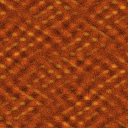
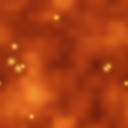
Smooth liquid edges, and a smooth lava tile
Shore quarters keep only the shore atlas's feather (alpha); their colour
comes from the liquid's own open-water tile at World position, so edges
match the body instead of the atlas's busier half-scale ripple. The lava
tile is regenerated in the water tile's soft style.

diff --git a/ROADMAP.md b/ROADMAP.md
@@ -641,6 +641,17 @@ roadmap's outdoor naturals) plus water.
   UNDERLAY (`_edge_underlay_mat` = the highest-ranked lower neighbour, so snow reveals sand beneath its
   feather; the grass base needs none) then the feathered atlas cell via `_shore_src(mask)`. Reuses the
   `base_fills` 4th-element src-override the shoreline added.
+- **Smooth liquid edges (2026-09-29, the user: the water's edge was "extra ripply").** The shore atlas
+  (`water_shore.png` / `lava_shore.png`) paints its own busier ripple, and each 32px atlas cell is squeezed
+  into a 16px quarter, so the edge ripple was twice as dense as the open water. Now only the atlas's ALPHA
+  (the feather shape) is used: `water_shimmer.gdshader` gained a shore mode (`use_body`) that colours a
+  shore quarter from the liquid's own open-water tile sampled by World position, exactly as open water
+  tiles it. `GridBackground` gives each liquid a shore canvas item with that material. The edge is now the
+  same smooth, seamless surface as the body, with the same shimmer; lava gets the same fix.
+  **Lava's own tile was also busy** (a high-contrast crosshatch), so `floors/lava_still.png` was regenerated
+  in the water tile's style: seamless 128x128 tileable value noise (3 octaves, soft blotches) on a crust ->
+  orange ramp, plus a few small glowing hot spots (procedural PIL; generator in the session scratchpad,
+  like the water's).
 - **Interactions.** Sand never feathers toward water (water outranks it); water still feathers over sand
   via its own shoreline (bank revealed). The river-bank ring still draws on naturals adjacent to water.
   Purely visual: a quarter's stored material is unchanged, so collision (sand/snow passable) and save are
@@ -1285,17 +1296,6 @@ The core game loop, folded in from a Notes batch and resolved with the user. Thi
 creature-collector RPG pillar the north star describes; infrastructure (dev-order steps 1 to 7)
 still comes first. See [[grid-quest-game-vision]].
 
-### Creature / minion states and lifecycle
-Canonical glossary + a fill-in form now live in `Design/creature-states.md`; keep this in sync with it.
-- **Entity vs control:** a **Creature** is the entity (what you call one while **wild / free**); a
-  **Minion** is a creature **under your control**.
-- **States:** **Wild** (roaming, hostile), **Subdued** (beaten, capture window open, transient),
-  **Entranced Minion** (mind forced by an **Enchantment Stone the player HOLDS**; obeys), **Contained**
-  / Paddocked (released from the stone into an appropriate paddock; roams the pen peacefully but is wild
-  at heart, turning hostile if the pen is broken or entered, until domesticated), **Loyal Minion**
-  (domesticated to loyalty; obeys willingly, needs no stone and no cage, never reverts). **Companion** =
-  a minion currently out walking with you (fills a carry slot; a deployment role).
-- **Enchantment Stone:** a held item (one of your slots) that controls one creature's mind remotely; it
 ### Combat direction (decided with the user 2026-09-29)
 - **Real-time on the map** (Zelda-style), not turn-based and not a separate battle screen: fights
   happen in the world, and you dodge by moving.
@@ -1326,6 +1326,17 @@ PLAY never mutates the map: records keep their authored cells, so EDIT puts ever
 **Open / later:** creatures entering houses (door-breaking abilities, e.g. Breaker Monkey on fences);
 per-species sight/leash; group behaviour; zone creatures respawning after defeat.
 
+### Creature / minion states and lifecycle
+Canonical glossary + a fill-in form now live in `Design/creature-states.md`; keep this in sync with it.
+- **Entity vs control:** a **Creature** is the entity (what you call one while **wild / free**); a
+  **Minion** is a creature **under your control**.
+- **States:** **Wild** (roaming, hostile), **Subdued** (beaten, capture window open, transient),
+  **Entranced Minion** (mind forced by an **Enchantment Stone the player HOLDS**; obeys), **Contained**
+  / Paddocked (released from the stone into an appropriate paddock; roams the pen peacefully but is wild
+  at heart, turning hostile if the pen is broken or entered, until domesticated), **Loyal Minion**
+  (domesticated to loyalty; obeys willingly, needs no stone and no cage, never reverts). **Companion** =
+  a minion currently out walking with you (fills a carry slot; a deployment role).
+- **Enchantment Stone:** a held item (one of your slots) that controls one creature's mind remotely; it
   is **never attached to the creature**. Releasing it, or moving it to storage, ends control: safe only
   when the creature is in appropriate containment (becomes Contained), otherwise it runs / turns Wild.
 - **Domestication:** an **experience-based** progression that rises **ONLY while a creature is Entranced**.
@@ -3608,6 +3619,23 @@ same system roofs and weather reuse.
     shared service; the minimap is another consumer).
 - Radius-based creature rendering needs a spatial query of nearby creatures; distant.
 
+**As built (2026-09-29): slice 1.** Decisions (confirmed with the user): a **~180px square, top-right**
+under the Play/Exit buttons; a **local window** (30x30 cells, 6px per cell) that scrolls smoothly with
+the player; **PLAY only** (the editor has pan/zoom); creature dots **coloured by state**. `ui/minimap.gd`
+(`Minimap`, CanvasLayer 8). "Building" and "inside" are exactly the roofs' (`Roofs.piece_at` /
+`buildings()`), so the view flips to the interior as the roof fades, and a fenced pen keeps the outdoor
+view. Outdoors: ground, liquids (water blue, lava orange), free-standing walls/fences, the map edge
+(off-map dark), buildings as one tan block. Indoors: that building's floors, walls and doors; everything
+else greyed, and only creatures inside with you are shown. The terrain is baked one pixel per cell (a
+32x32 image) on a cell change or a layout change and drawn scaled; only the dots draw per frame.
+`Bestiary.State` + `STATE_COLORS` now exist, using the canonical states from
+`Design/creature-states.md` (Wild / Subdued / Entranced / Contained / Loyal; reconciled 2026-09-29, the
+minimap bullet's "Wild Monster / Wild Animal" split is a species axis, not a state); `CreatureMarker.state`
+defaults to Wild (not saved; nothing changes it
+until Phase C capture). Covered by `dev/test_minimap` (18 checks).
+**Not built yet:** a whole-map view (e.g. a key to expand), room/paddock name labels, zoom, and
+rotating the window or a facing arrow beyond the small nub.
+
 ## Map-to-map travel (reach the edge, logged 2026-08-15)
 The world is **multiple linked maps**: reaching the **right edge** of the home map (e.g. following a
 path to the edge) moves the character to an **adjacent map** (e.g. a forest map to the right). This
@@ -3661,23 +3689,6 @@ confirmed Beastlord):
 - **Druid:** uses slots for Loyal Companions so the character carries **extra spells**; nature-
   positive, releases animals, avoids meat (eats vegetables, which heal less). *Buff:* an extra spell
   slot per companion. *Balance read:* overlaps Sorcerer's "extra slots", so **differentiate
-**As built (2026-09-29): slice 1.** Decisions (confirmed with the user): a **~180px square, top-right**
-under the Play/Exit buttons; a **local window** (30x30 cells, 6px per cell) that scrolls smoothly with
-the player; **PLAY only** (the editor has pan/zoom); creature dots **coloured by state**. `ui/minimap.gd`
-(`Minimap`, CanvasLayer 8). "Building" and "inside" are exactly the roofs' (`Roofs.piece_at` /
-`buildings()`), so the view flips to the interior as the roof fades, and a fenced pen keeps the outdoor
-view. Outdoors: ground, liquids (water blue, lava orange), free-standing walls/fences, the map edge
-(off-map dark), buildings as one tan block. Indoors: that building's floors, walls and doors; everything
-else greyed, and only creatures inside with you are shown. The terrain is baked one pixel per cell (a
-32x32 image) on a cell change or a layout change and drawn scaled; only the dots draw per frame.
-`Bestiary.State` + `STATE_COLORS` now exist, using the canonical states from
-`Design/creature-states.md` (Wild / Subdued / Entranced / Contained / Loyal; reconciled 2026-09-29, the
-minimap bullet's "Wild Monster / Wild Animal" split is a species axis, not a state); `CreatureMarker.state`
-defaults to Wild (not saved; nothing changes it
-until Phase C capture). Covered by `dev/test_minimap` (18 checks).
-**Not built yet:** a whole-map view (e.g. a key to expand), room/paddock name labels, zoom, and
-rotating the window or a facing arrow beyond the small nub.
-
   clearly**: Sorcerer's slots are raw *attack* magic with no bodies; Druid's spells come **bundled
   with a companion animal's body plus inherent ability** (mount speed, gathering), skewing
   **utility/support/mobility** over raw damage. Plus positive-karma world/NPC benefits. Good contrast
